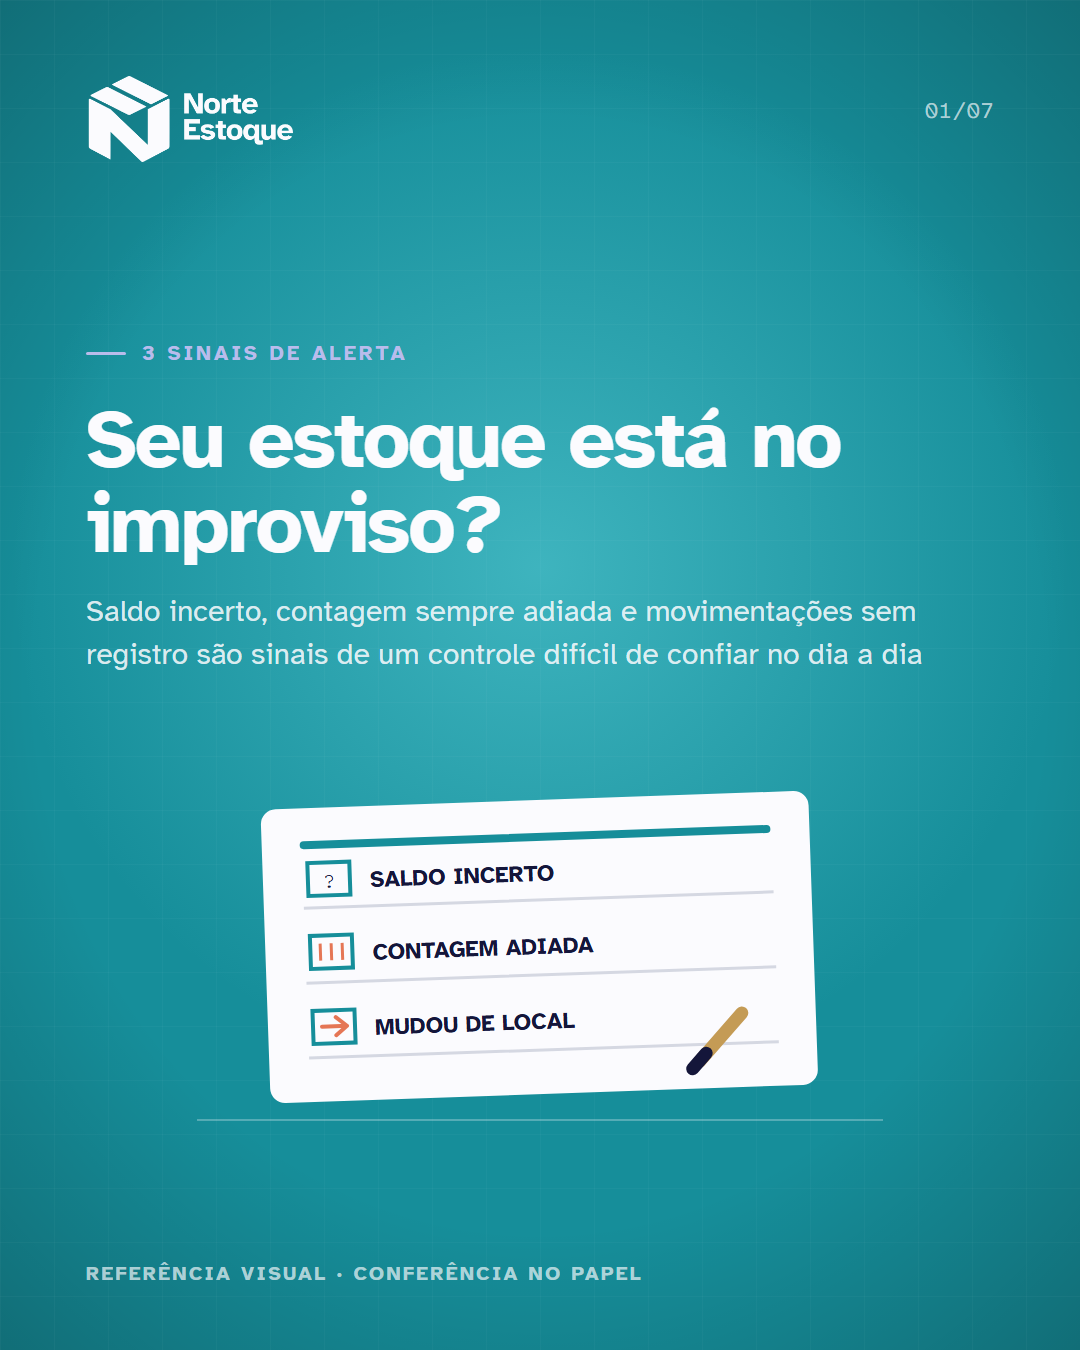
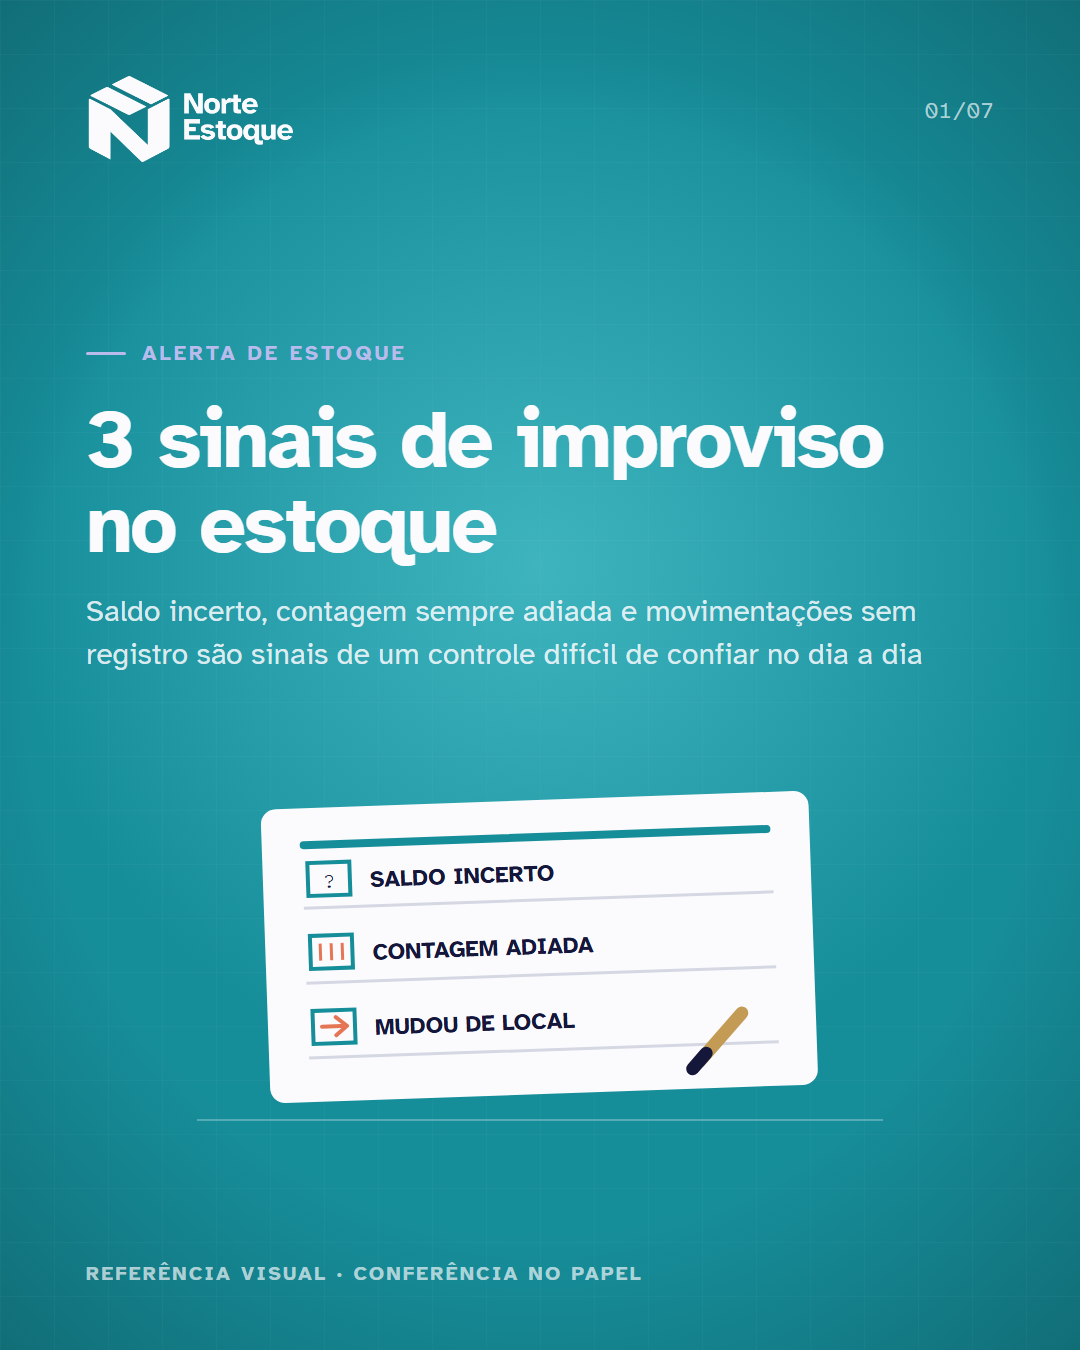
Center three-signal idea in inventory cover

Changed region(s): [[0.0611, 0.2489, 0.825, 0.4356]]

diff --git a/src/coverReferences/NorteEstoqueCoverReferences.tsx b/src/coverReferences/NorteEstoqueCoverReferences.tsx
@@ -18,8 +18,8 @@ const RefFrame: React.FC<{name: string; children: React.ReactNode}> = ({name, ch
         <Background tone="product" id={textureId} />
         <Img src={LOGO_ESTOQUE} style={{position: 'absolute', left: PAD, top: 76, height: 86, width: 'auto'}} />
         <span style={{position: 'absolute', right: PAD, top: 96, fontFamily: MONO, fontSize: 22, color: mute('product')}}>01/07</span>
-        <Eyebrow tone="product" top={340}>3 SINAIS DE ALERTA</Eyebrow>
-        <Title tone="product" top={398} size={82}>Seu estoque está no improviso?</Title>
+        <Eyebrow tone="product" top={340}>ALERTA DE ESTOQUE</Eyebrow>
+        <Title tone="product" top={398} size={82}>3 sinais de improviso no estoque</Title>
         <Support tone="product" top={590} width={870} size={30}>Saldo incerto, contagem sempre adiada e movimentações sem registro são sinais de um controle difícil de confiar no dia a dia</Support>
         <div style={{position: 'absolute', left: 86, top: 770, width: 908, height: 390}}>{children}</div>
         <div style={{position: 'absolute', left: PAD, bottom: 64, fontFamily: SANS, fontWeight: 700, fontSize: 20, letterSpacing: 2.4, textTransform: 'uppercase', color: mute('product')}}>Referência visual · {name}</div>

diff --git a/src/templates/NorteEstoqueSinais.tsx b/src/templates/NorteEstoqueSinais.tsx
@@ -43,8 +43,8 @@ const Cover: React.FC = () => {
         <Background tone="product" id="ne-sinais-cover" />
         <Img src={LOGO_ESTOQUE} style={{position: 'absolute', left: PAD, top: 76, height: 86, width: 'auto'}} />
         <span style={{position: 'absolute', right: PAD, top: 96, fontFamily: MONO, fontSize: 22, color: mute('product')}}>01/07</span>
-        <Eyebrow tone="product" top={340}>3 SINAIS DE ALERTA</Eyebrow>
-        <Title tone="product" top={398} size={82}>Seu estoque está no improviso?</Title>
+        <Eyebrow tone="product" top={340}>ALERTA DE ESTOQUE</Eyebrow>
+        <Title tone="product" top={398} size={82}>3 sinais de improviso no estoque</Title>
         <Support tone="product" top={590} width={870} size={30}>Saldo incerto, contagem sempre adiada e movimentações sem registro são sinais de um controle difícil de confiar no dia a dia</Support>
         <div data-illustration="stock-signal-triptych" style={{position: 'absolute', left: 86, top: 770, width: 908, height: 390}}>
           <NorteEstoqueSignalsIllustration />

diff --git a/conteudo ntb/02-carrosseis/Norte Estoque - 3 sinais/COPY.md b/conteudo ntb/02-carrosseis/Norte Estoque - 3 sinais/COPY.md
@@ -2,9 +2,9 @@
 
 ## Slide 1 | Capa
 
-**3 SINAIS DE ALERTA**
+**ALERTA DE ESTOQUE**
 
-**Seu estoque está no improviso?**
+**3 sinais de improviso no estoque**
 
 Saldo incerto, contagem sempre adiada e movimentações sem registro são sinais de um controle difícil de confiar no dia a dia
 
